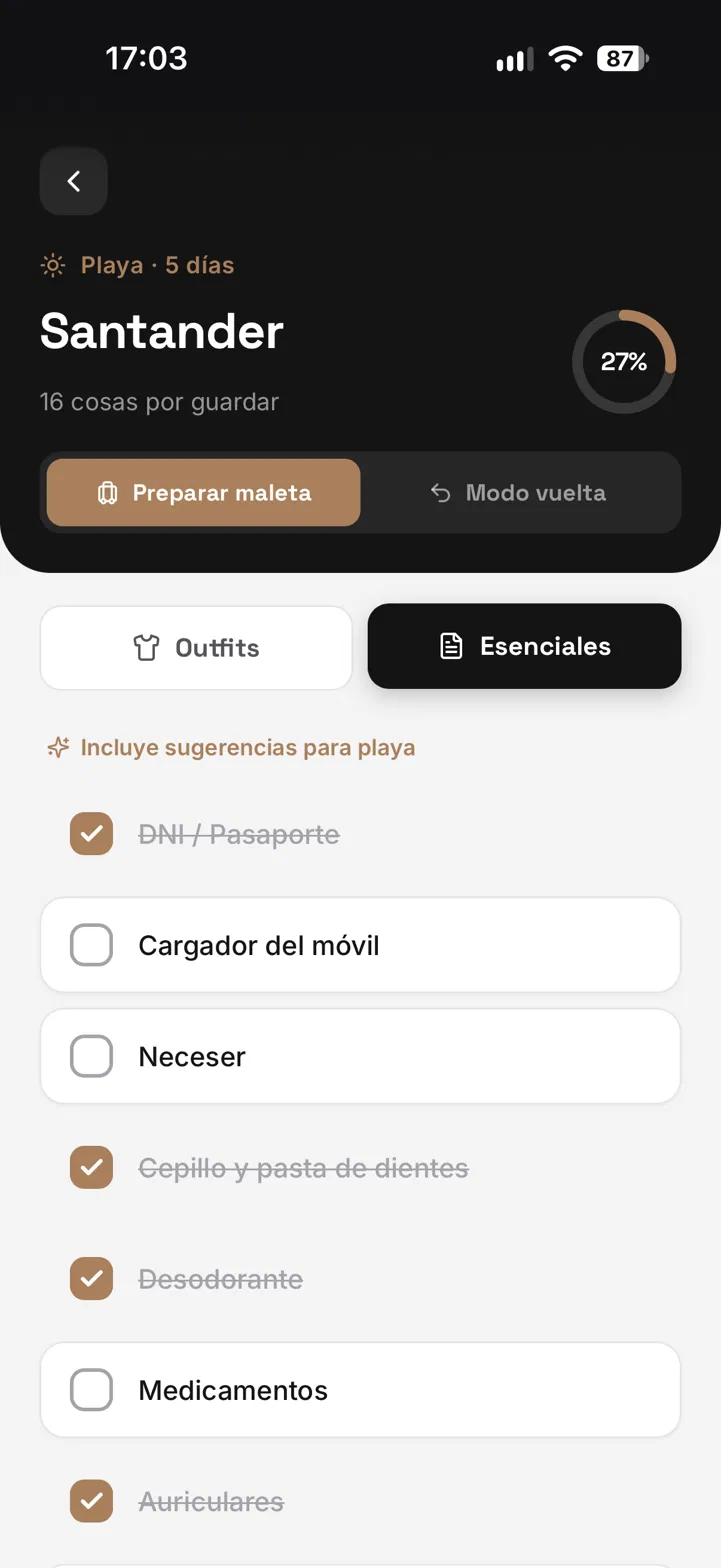
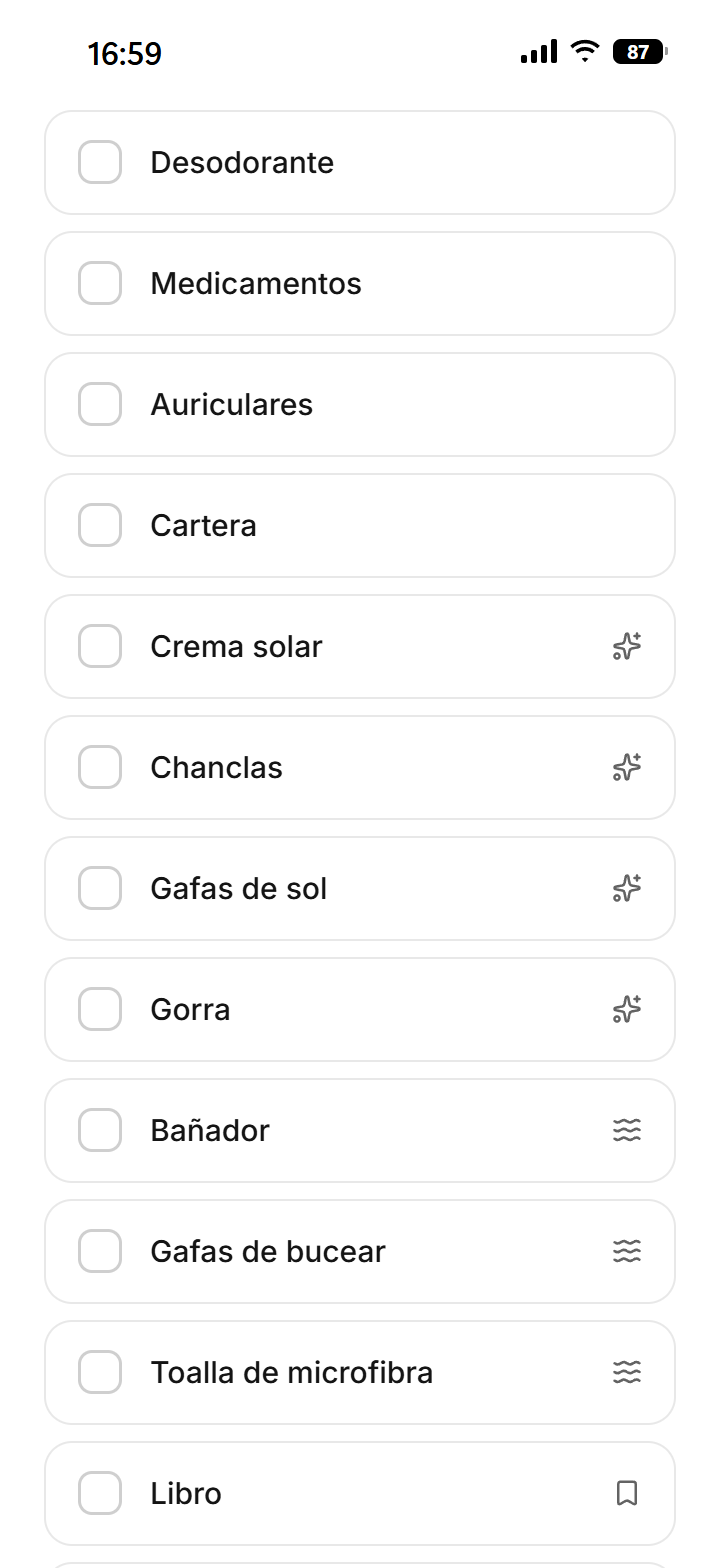
content: Tralap con su rediseño en monocromo y modo oscuro
Capturas nuevas y caso de estudio al día: copia de seguridad, deshacer,
modo oscuro, tests con Vitest y CI.

diff --git a/src/content/projects/es/tralap.md b/src/content/projects/es/tralap.md
@@ -6,15 +6,17 @@ demo: https://tralap.vercel.app
 repo: https://github.com/davidsnhz/Tralap
 cover:
   src: ../../../assets/projects/tralap-mobile.png
-  alt: Pantalla Mis viajes de Tralap con tres viajes, Portugal, Santander y Madrid, y lo que lleva preparado cada maleta
+  alt: Pantalla Mis viajes de Tralap con tres viajes, Picos de Europa, Santander y Madrid, y lo que lleva preparado cada maleta
 screenshots:
   - src: ../../../assets/projects/tralap-mobile.png
-    alt: Pantalla Mis viajes de Tralap con tres viajes, Portugal, Santander y Madrid, y lo que lleva preparado cada maleta
+    alt: Pantalla Mis viajes de Tralap con tres viajes, Picos de Europa, Santander y Madrid, y lo que lleva preparado cada maleta
   - src: ../../../assets/projects/tralap-outfits.png
     alt: Viaje a Santander en Tralap, pestaña Outfits, con las cantidades de ropa calculadas para 5 días
   - src: ../../../assets/projects/tralap-esenciales.png
-    alt: Viaje a Santander en Tralap, pestaña Esenciales, con sugerencias para playa
-order: 2
+    alt: Esenciales del viaje a Santander en Tralap, con un icono que indica si cada cosa es una sugerencia para playa, sale de la actividad de agua o de tu plantilla
+  - src: ../../../assets/projects/tralap-oscuro.png
+    alt: Pantalla Mis viajes de Tralap en modo oscuro
+order: 3
 featured: true
 ---
 
@@ -34,15 +36,18 @@ Que la lista se haga sola. Creas el viaje con el destino, el tipo de viaje, las 
 - Cada viaje tiene su progreso, con un anillo y barras de porcentaje.
 - **Mi plantilla**: lo que llevas siempre, para meterlo en cualquier viaje con un toque.
 - **Modo vuelta**: un checklist para repasar el alojamiento antes de irte.
-- Deslizas una tarjeta para renombrarla o borrarla, con sus animaciones.
+- Deslizas una tarjeta para renombrarla o borrarla, con sus animaciones, y si borras algo sin querer lo puedes deshacer.
+- **Copia de seguridad** de tus datos para guardarla o restaurarla sin duplicar ni borrar nada.
+- Modo oscuro, que sigue al del móvil si no eliges uno en Ajustes.
 - Se instala en el móvil y funciona sin conexión.
 
 ## Cómo está hecha
 
 - **React con TypeScript** en modo estricto y **Vite**.
-- **Tailwind CSS**, con la paleta de la app (blanco, gris, negro y marrón claro) como tokens.
-- **Sin backend**: todo se guarda en localStorage con una versión de esquema, así puedo cambiar cómo se guardan los datos sin romper los viajes que ya tenías.
+- **Tailwind CSS**. La interfaz es casi toda blanco, negro y grises, y el marrón queda solo para lo que se pulsa o está elegido. Los colores están en un único archivo que usan Tailwind, el CSS y el manifest.
+- **Sin backend**: todo se guarda en localStorage con una versión de esquema, así puedo cambiar cómo se guardan los datos sin romper los viajes que ya tenías. Lo que no se puede leer se aparta en vez de perderse.
 - **vite-plugin-pwa** para el service worker y el manifest.
+- Tests con **Vitest**, ESLint y GitHub Actions para comprobarlo todo en cada cambio.
 - Respeta *prefers-reduced-motion*: si tienes las animaciones reducidas en el móvil, la app también las reduce.
 
 ## Lo más complicado

diff --git a/src/content/projects/en/tralap.md b/src/content/projects/en/tralap.md
@@ -6,15 +6,17 @@ demo: https://tralap.vercel.app
 repo: https://github.com/davidsnhz/Tralap
 cover:
   src: ../../../assets/projects/tralap-mobile.png
-  alt: Tralap's My trips screen with three trips, Portugal, Santander and Madrid, and how far along each suitcase is
+  alt: Tralap's My trips screen with three trips, Picos de Europa, Santander and Madrid, and how far along each suitcase is
 screenshots:
   - src: ../../../assets/projects/tralap-mobile.png
-    alt: Tralap's My trips screen with three trips, Portugal, Santander and Madrid, and how far along each suitcase is
+    alt: Tralap's My trips screen with three trips, Picos de Europa, Santander and Madrid, and how far along each suitcase is
   - src: ../../../assets/projects/tralap-outfits.png
     alt: Trip to Santander in Tralap, Outfits tab, with clothing quantities calculated for 5 days
   - src: ../../../assets/projects/tralap-esenciales.png
-    alt: Trip to Santander in Tralap, Essentials tab, with suggestions for a beach trip
-order: 2
+    alt: Essentials for the trip to Santander in Tralap, with an icon showing whether each item is a beach suggestion, comes from the water activity or from your template
+  - src: ../../../assets/projects/tralap-oscuro.png
+    alt: Tralap's My trips screen in dark mode
+order: 3
 featured: true
 ---
 
@@ -34,15 +36,18 @@ Let the list make itself. You create a trip with the destination, the type of tr
 - Each trip shows its progress with a ring and percentage bars.
 - **My template**: the things you always bring, ready to add to any trip with one tap.
 - **Return mode**: a checklist to go over the place you stayed before you leave.
-- Swipe a card to rename or delete it, with animations.
+- Swipe a card to rename or delete it, with animations, and if you delete something by mistake you can undo it.
+- **Backup** of your data to save it or restore it without duplicating or deleting anything.
+- Dark mode, which follows your phone's setting unless you pick one in Settings.
 - Installs on your phone and works offline.
 
 ## How it's built
 
 - **React with TypeScript** in strict mode, and **Vite**.
-- **Tailwind CSS**, with the app's palette (white, grey, black and light brown) as tokens.
-- **No backend**: everything is stored in localStorage with a schema version, so I can change how data is saved without breaking the trips you already had.
+- **Tailwind CSS**. The interface is almost all white, black and greys, and brown is only used for what you tap or have selected. The colours live in a single file shared by Tailwind, the CSS and the manifest.
+- **No backend**: everything is stored in localStorage with a schema version, so I can change how data is saved without breaking the trips you already had. Anything that can't be read is set aside instead of lost.
 - **vite-plugin-pwa** for the service worker and the manifest.
+- Tests with **Vitest**, ESLint and GitHub Actions to check everything on every change.
 - Respects *prefers-reduced-motion*: if you've reduced animations on your phone, the app reduces them too.
 
 ## The hardest part
